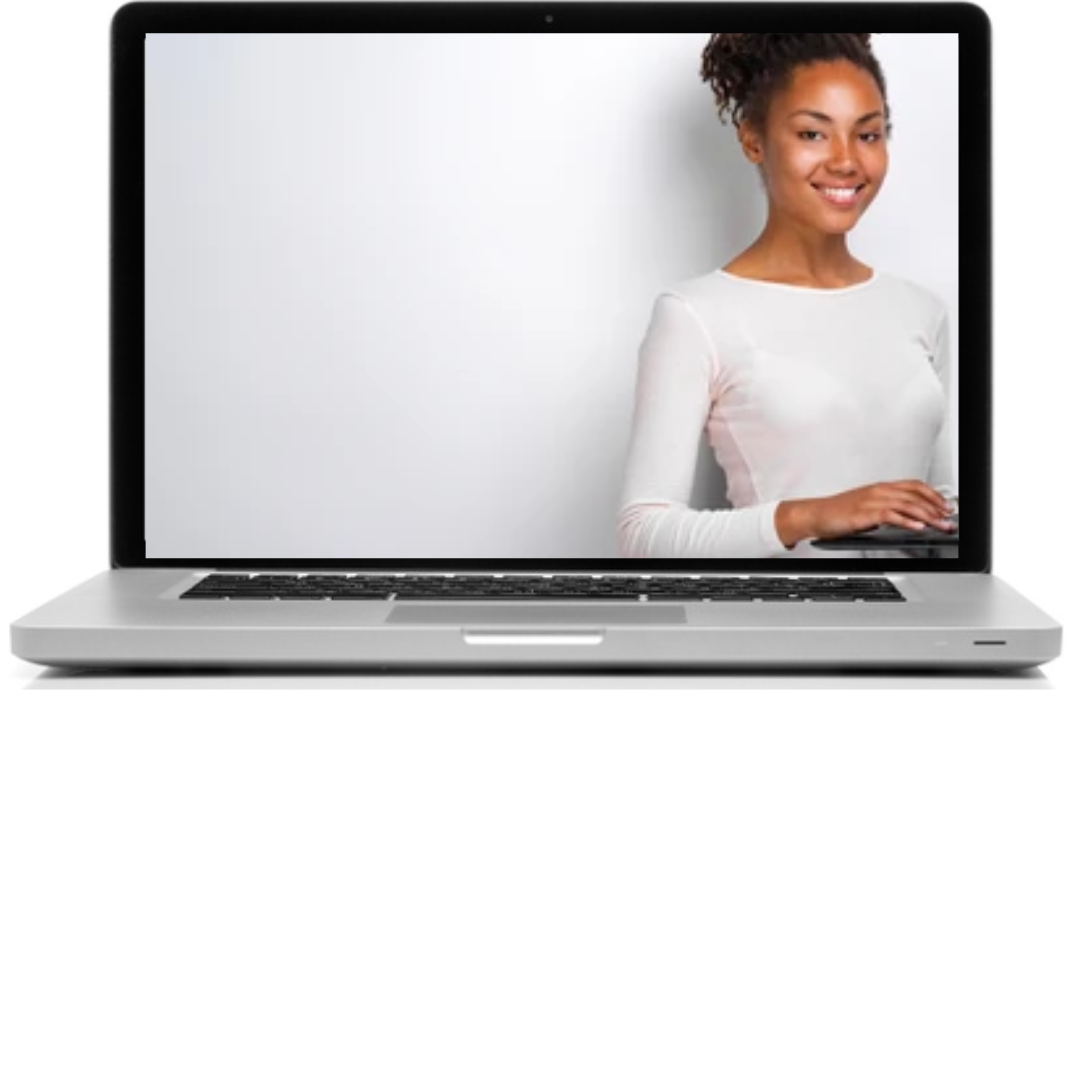
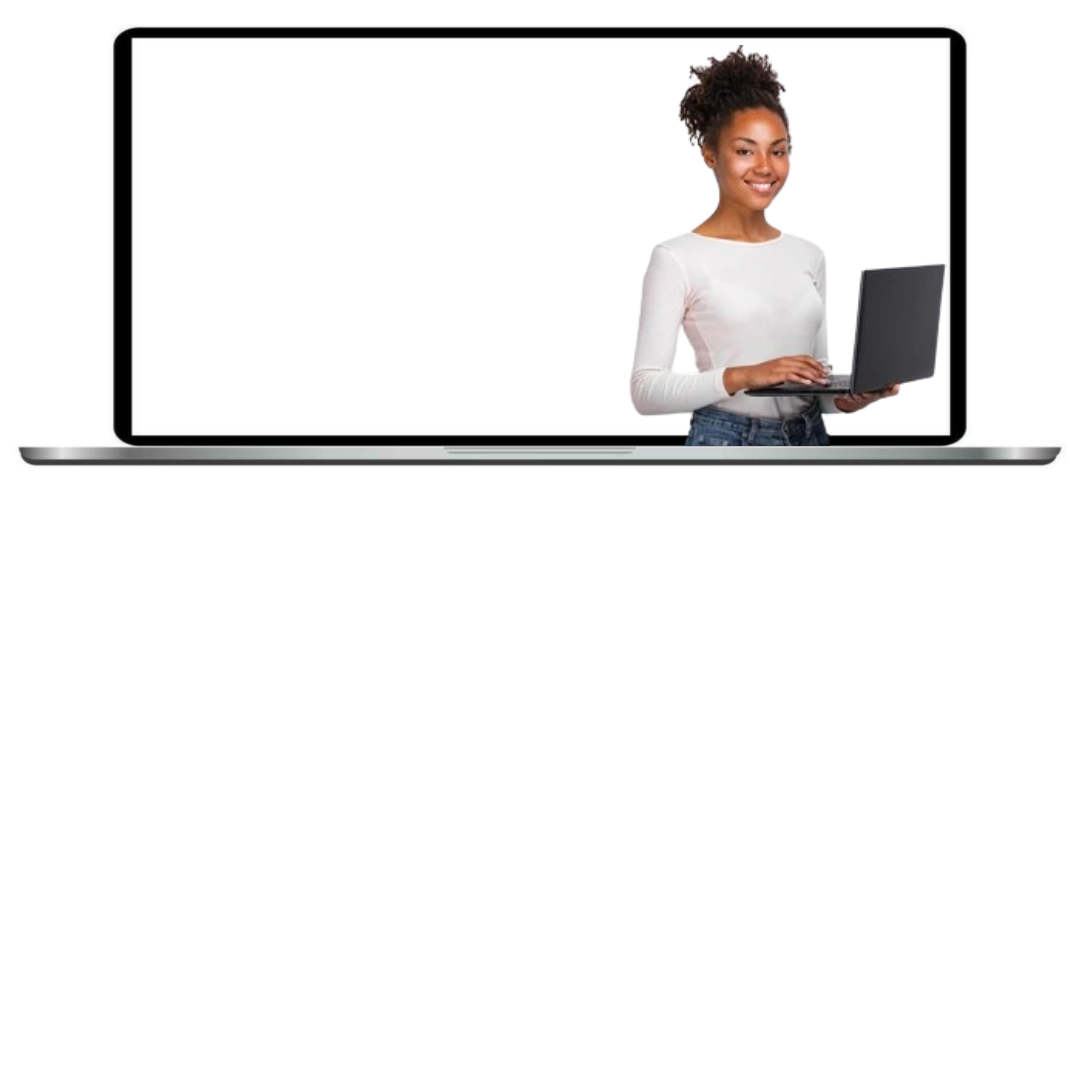
png

diff --git a/src/App.css b/src/App.css
@@ -5,9 +5,10 @@
 .link {
   margin: 20px;
 }
+
 .btn {
   margin: 20px;
-  background-color: gray; 
+  background-color: gray;
 }
 
 .footer {
@@ -15,17 +16,19 @@
   height: 50px;
 
 
-background-color: aquamarine;
+  background-color: aquamarine;
 }
+
 .header {
   width: 100%;
   height: 50px;
 
-background-color: aquamarine;
+  background-color: aquamarine;
 }
 
-.blended-background {
-  height: 100vh; /* Full viewport height */
+.laptop-background {
+  height: 100vh;
+  /* Full viewport height */
   display: flex;
   flex-direction: column;
   justify-content: center;
@@ -34,13 +37,33 @@ background-color: aquamarine;
   text-align: center;
   padding: 20px;
 
-  background-image:  url('https://cdn.create.vista.com/api/media/small/7920667/stock-photo-laptop-with-blank-screen-isolated-on-white'), url('https://www.shutterstock.com/image-photo/portrait-happy-young-woman-holding-260nw-1427847758.jpg');
+  background-image: url('https://static.vecteezy.com/system/resources/previews/023/354/541/non_2x/empty-screen-laptop-vector.jpg');
+  background-size: 50%;
+  /* background-blend-mode: overlay; */
+
+  background-repeat: no-repeat;
+  background-position-y: top;
+  background-position-x: center;
+}
+
+.blended-background {
+  height: 100vh;
+  /* Full viewport height */
+  display: flex;
+  flex-direction: column;
+  justify-content: center;
+  align-items: center;
+  color: white;
+  text-align: center;
+  padding: 20px;
+
+  background-image: url('https://cdn.create.vista.com/api/media/small/7920667/stock-photo-laptop-with-blank-screen-isolated-on-white'), url('https://www.shutterstock.com/image-photo/portrait-happy-young-woman-holding-260nw-1427847758.jpg');
   background-size: 90%, 50%;
   background-blend-mode: overlay;
-  
+
   background-repeat: no-repeat, no-repeat;
-  background-position-y:top, 90% ;
-  background-position-x:center, 60%;
+  background-position-y: top, 90%;
+  background-position-x: center, 60%;
 }
 
 /* .App-logo {

diff --git a/src/pages/home/Home.js b/src/pages/home/Home.js
@@ -18,8 +18,8 @@ const Home = () => {
   const centerText = 'Apskaitos sprendimai visiems'
 
   return (
-    <div className='container blended-background'>
-      {/* <CircleWithButtons buttons={mainMenu} text={centerText} size={120} color={'green'}/> */}
+    <div className='container laptop-background'>
+      <CircleWithButtons buttons={mainMenu} text={centerText} size={100} color={'green'}/>
     </div>
 
   );
